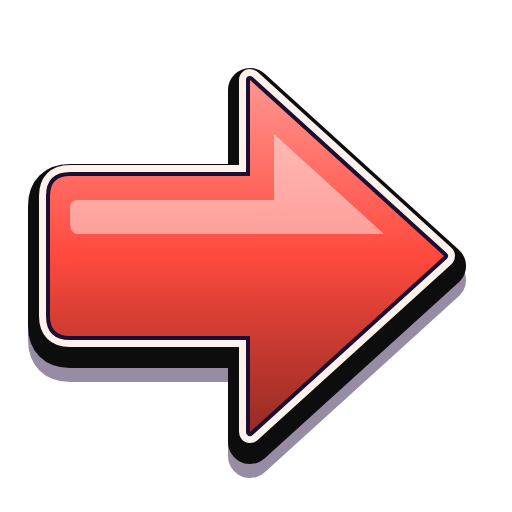
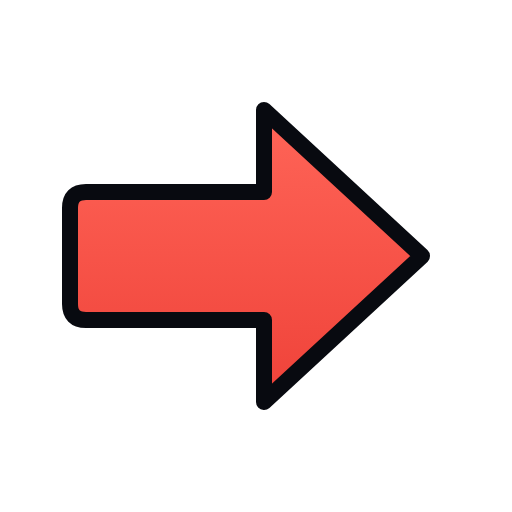
fix(tutorial): simplify arrow and clear Skip from progress bar

Changed region(s): [[0.0312, 0.125, 0.9375, 0.9375]]

diff --git a/tools/tutorial/make_assets.py b/tools/tutorial/make_assets.py
@@ -20,11 +20,9 @@ GOLD = "#ffd43a"
 def make(name):
     icon = icons.Icon()
     if name == "FocusArrow":
-        path = 'd="M35 88 H125 V40 L222 128 L125 216 V168 H35 Q25 168 25 158 V98 Q25 88 35 88Z"'
-        icon.raw(f'<path {path} transform="translate(0 5)" fill="#080a10" stroke="#080a10" stroke-width="22" stroke-linejoin="round"/>')
-        icon.raw(f'<path {path} fill="#fff2ed" stroke="#fff2ed" stroke-width="11" stroke-linejoin="round"/>')
-        icon.shape("path", path, "#ff493e", 4)
-        icon.gloss("path", 'd="M39 100 H137 V67 L192 117 H39 Q35 117 35 111 V104 Q35 100 39 100Z"', .45)
+        path = 'd="M43 96 H132 V55 L211 128 L132 201 V160 H43 Q35 160 35 152 V104 Q35 96 43 96Z"'
+        icon.raw('<defs><linearGradient id="focus-red" x1="0" y1="0" x2="0" y2="1"><stop offset="0" stop-color="#ff6558"/><stop offset="1" stop-color="#ef4239"/></linearGradient></defs>')
+        icon.raw(f'<path {path} fill="url(#focus-red)" stroke="#080a10" stroke-width="8" stroke-linejoin="round"/>')
     elif name == "Pointer":
         icon.shape("path", 'd="M38 91 H132 V43 L220 128 L132 213 V165 H38 Z"', GOLD)
         icon.gloss("path", 'd="M50 102 H145 V72 L194 120 H50 Z"', .5)
@@ -49,7 +47,7 @@ def make(name):
     else:
         icon.shape("path", 'd="M38 121 L128 38 L218 121 L191 150 L128 94 L65 150 Z M38 184 L128 101 L218 184 L191 213 L128 157 L65 213Z"', GOLD, 11)
         icon.gloss("path", 'd="M57 119 L128 54 L200 119 L189 130 L128 78 L68 130Z"', .55)
-    return icon.svg(shadow=name not in {"TargetRing", "PathMarker"})
+    return icon.svg(shadow=name not in {"FocusArrow", "TargetRing", "PathMarker"})
 
 
 def main():

diff --git a/docs/ReactiveTutorial.md b/docs/ReactiveTutorial.md
@@ -12,23 +12,30 @@ The free starter sack already exists in SackGear/Hotbar.Slot0, so its real contr
 
 Main guidance ends at the first placed pet and a brief income introduction: at least two seconds with income observed, or a five-second explanation fallback if the income tick is delayed. Affordable pen/speed upgrades are optional dismissible tips. No purchase, reward, camera takeover or movement restriction is introduced.
 
-`UI/Tutorial` contains reusable welcome/objective cards, real-control spotlight and world guide. The latest revision retains the preceding approved-menu layout: dark body, 5px near-black border, 8px corners, six-pixel shadow, striped gradient header, outlined white Fredoka text, chunky highlighted buttons, numbered steps, progress bar and interaction motion. Headers, buttons, progress and guidance now use red accents. Tutorial panels contain no decorative ImageLabels/ImageButtons: egg/sack/pet/cash icons, completion sparkles, texture PNGs and unrelated success effects are removed from the tutorial. The real game hotbar retains its normal art and live 3D item previews. The user subsequently approved one custom PNG exception for the arrow: FocusArrow is shared by the hotbar/control pointer, world pointer and offscreen pointer. Other historical tutorial images remain unused.
+`UI/Tutorial` contains reusable welcome/objective cards, real-control spotlight and world guide. The latest revision retains the preceding approved-menu layout: dark body, 4px near-black border, 8px corners, six-pixel shadow, striped gradient header, outlined white Fredoka text, chunky highlighted buttons, numbered steps, progress bar and interaction motion. Headers, buttons, progress and guidance now use red accents. Tutorial panels contain no decorative ImageLabels/ImageButtons: egg/sack/pet/cash icons, completion sparkles, texture PNGs and unrelated success effects are removed from the tutorial. The real game hotbar retains its normal art and live 3D item previews. The user subsequently approved one custom PNG exception for the arrow: FocusArrow is shared by the hotbar/control pointer, world pointer and offscreen pointer. Other historical tutorial images remain unused.
 
 The current sentence appears for four seconds, fades/pops away over 0.2s, and leaves a small red SHOW HINT button. Clicking it recalls the current instruction; a reminder returns after ten seconds, and a new action changes the instruction immediately. Reduced Motion removes the scale transition. Completion is one short styled card. Confirmed training hits and stage changes give the heading a small scale pop; cues rise/fade into place. These motions honor Reduced Motion. Main instructions remain short sentences; the numbered stage and training count retain the prior layout.
 
 During the main tutorial/welcome, Focus temporarily masks side menus, drawers, settings/sound buttons, counters, weather and the Studio weather developer control. It preserves the actual instances and their current Visible state, including changes made while hidden. The hotbar, kick/chase controls, placement hints, normal movement, touch controls and Roblox menu remain available. Counters return for the income lesson; all masked panels return after Skip, completion, controller cleanup, or opening a real menu. Cosmetic kick cinematics keep the extra HUD masked. Replay uses the same hotbar and masking flow.
 
-The spotlight again uses four inactive dark masks (52% opacity) with a clear hole around the real control. A custom glossy red PNG points down from above the selected egg/control, bounces by up to eight pixels, and has a softly breathing outline. It falls back below/beside controls only when needed to stay in the safe viewport. Shared rectangle edges are rounded once to avoid one-pixel gaps on scaled controls. The dimming fades in and never captures input. Rectangles account for visibility, scrolling clips and safe-area offsets. World guidance resolves BaseIndex plus OwnerUserId, then uses a red highlight, bouncing PNG arrow, softly pulsing segmented floor ring and offscreen pointer. The world arrow is projected into the tutorial ScreenGui each frame using the active camera and safe-area inset; this fixes the unreliable former BillboardGui rendering and ensures the same menu/cinematic visibility rules. The anchor bobs by 0.4 studs; Reduced Motion freezes that bob and the UI arrow/pulse. The complete walking route is sampled by distance from the current player position every frame, beginning ahead of the feet and ending at the target. Each native two-bar chevron points along the route; exponential interpolation removes waypoint jumps. Up to 40 chevrons (24 touch / 18 Low Detail) and a thin connector use fixed pools. Walking-only navigation, torso-width corridor tests and bidirectional segment validation reject fence-crossing paths; asynchronous results are discarded after target changes. Guidance clears over Settings/Trade/modals and during the existing cinematic. ZoneProgress continues to clear the objective by 16px.
+The spotlight again uses four inactive dark masks (52% opacity) with a clear hole around the real control. A custom red PNG with a thin outline points down from above the selected egg/control, bounces by up to eight pixels, and has a softly breathing outline. It falls back below/beside controls only when needed to stay in the safe viewport. Shared rectangle edges are rounded once to avoid one-pixel gaps on scaled controls. The dimming fades in and never captures input. Rectangles account for visibility, scrolling clips and safe-area offsets. World guidance resolves BaseIndex plus OwnerUserId, then uses a red highlight, bouncing PNG arrow, softly pulsing segmented floor ring and offscreen pointer. The world arrow is projected into the tutorial ScreenGui each frame using the active camera and safe-area inset; this fixes the unreliable former BillboardGui rendering and ensures the same menu/cinematic visibility rules. The anchor bobs by 0.4 studs; Reduced Motion freezes that bob and the UI arrow/pulse. The complete walking route is sampled by distance from the current player position every frame, beginning ahead of the feet and ending at the target. Each native two-bar chevron points along the route; exponential interpolation removes waypoint jumps. Up to 40 chevrons (24 touch / 18 Low Detail) and a thin connector use fixed pools. Walking-only navigation, torso-width corridor tests and bidirectional segment validation reject fence-crossing paths; asynchronous results are discarded after target changes. Guidance clears over Settings/Trade/modals and during the existing cinematic. ZoneProgress continues to clear the objective by 16px.
 
 The earlier cyan/lime approved-menu restyle at `3e2b66a` is the visual baseline. The user explicitly corrected an over-simplified intermediate draft: retain that styled UI and make focused fixes. That intermediate draft is not the delivered revision.
 
 ## Arrow asset and historical assets
 
-Current approved arrow: `assets/tutorial/FocusArrow.png`, editable `assets/tutorial/src/FocusArrow.svg`. It extends the existing icon generator with a red gradient, light inner rim, thick dark outline and highlight. Regenerate only this asset with `python tools/tutorial/make_assets.py FocusArrow`. The PNG is verified 512px RGBA with transparent corners. Uploaded using the existing Open Cloud uploader under verified user **1340874349**: decal **130821505800543**, resolved image **97161043303033**. Runtime preloads the resolved image; native Studio confirmed IsLoaded and visually rendered it above the hotbar egg and a hatching world egg. The user explicitly permitted this pointer PNG after requesting image-free panels.
+Current approved arrow: `assets/tutorial/FocusArrow.png`, editable `assets/tutorial/src/FocusArrow.svg`. It extends the existing icon generator with the same red arrow silhouette in a simpler finish. Regenerate only this asset with `python tools/tutorial/make_assets.py FocusArrow`. The current simpler revision keeps one thin dark outline and a subtle red fill; the earlier white rim, gloss and extruded shadow are removed. The PNG is verified 512px RGBA with transparent corners. Uploaded using the existing Open Cloud uploader under verified user **1340874349**: decal **128419627869618**, resolved image **82798776261686**. The preceding glossy revision was decal 130821505800543 / image 97161043303033. Runtime preloads the resolved image; native Studio confirmed IsLoaded and visually rendered it above the hotbar egg and a hatching world egg. The user explicitly permitted this pointer PNG after requesting image-free panels.
 
 Six original 512px RGBA PNGs extend the existing SVG icon language: Pointer, WorldArrow, Checkmark, Sparkle, TargetRing, PathMarker. PNGs and editable SVGs are in `assets/tutorial`; `tools/tutorial/make_assets.py` reproduces them using the repo icon helper and headless Chrome. Uploaded under verified creator **1340874349**. Actual returned decal and resolved image IDs are in `assets/tutorial/roblox-assets.json`; the historical Assets registry retains the resolved images; only FocusArrow is referenced by the current tutorial components. No credentials are stored.
 
 ## Verification performed
+
+Current small visual refinement after `0034e08` (2026-10-19):
+- Simplified the existing arrow PNG to one red fill with a subtle gradient and a thin dark outline. Uploaded decal **128419627869618**, resolved image **82798776261686**; it loaded and was visually reviewed in Studio. Existing bounce, blackouts and tutorial behavior remain.
+- Tutorial panels use a 4px border (previously 5), buttons 3px (previously 4), and the objective header divider is 2px. The objective is 104px tall instead of 96; Skip moves up one pixel and the progress bar anchors nine pixels from the bottom. Its 48px tap target is retained.
+- **111 native presentation checks** passed across 844x390, 390x844 and 320x568, including nine checks that the actual hovered Skip border clears the progress bar. The representative desktop preview measured **5.21px visible clearance at 1.035 hover scale**. Simpler arrow and lighter panel/button outlines were visually reviewed with production sibling layering.
+- Targeted StyLua/diff and Rojo/binary verification pass: **298 scripts**, **17 relevant sources** current/compilable, no probes. Gameplay, route and full-loop tests were not rerun for these local art/layout changes; prior evidence below is inherited.
+
 
 Current arrow/dimming follow-up after `60aca93` (2026-10-19):
 - **102 native presentation checks** passed with the production modules: the existing three responsive sizes, allowed-arrow-only image policy, clear/non-interactive spotlight hole, complete mask coverage, above-control placement/fallback, vertical bounce, frozen Reduced Motion effects, world bob, safe-area screen projection, behind-camera edge pointer and cleanup.

diff --git a/docs/DEVELOPMENT_HANDOFF.md b/docs/DEVELOPMENT_HANDOFF.md
@@ -1,7 +1,7 @@
 # Development handoff
 
 ## Current checkpoint
-- Task complete: preserved the styled tutorial and restored focused blackouts. One approved custom red PNG arrow now bounces above real hotbar controls and world eggs; soft outline/ring pulses and training/stage text pops add motion. Panels remain free of decorative PNGs. Fixed world-arrow rendering using camera projection and mask seams on scaled controls. Rebuilt `outputs/KickTheEgg-ReactiveTutorial.rbxl`; clean single-player welcome preview. See `docs/ReactiveTutorial.md`.
+- Task complete: simplified the red arrow finish, slightly thinned tutorial borders and fixed Skip/progress overlap with clearance even at full hover scale. Retained styled panels, bounce and focused blackouts. Rebuilt `outputs/KickTheEgg-ReactiveTutorial.rbxl`; clean single-player welcome preview. See `docs/ReactiveTutorial.md`.
 - Branch: `codex/reactive-tutorial`, based on podium relocation `164cb63` on `codex/pen-upgrade-feedback`, itself based on setup commit `4aa9292` and combined game `origin/a/full-build` at `2f59bee` (character-animation merge, PR #49).
 - Working directory: `C:/Users/kerem/Documents/Codex/2026-10-13/ca/work/kte-setup`.
 - GitHub: current tutorial uses `codex/reactive-tutorial`; prior pen feedback, Shift Lock, shop labels and podium work remain on `origin/codex/pen-upgrade-feedback` at `164cb63`. Use the tutorial branch tip for the assembled revision. No PR or automatic merge is created.
@@ -21,6 +21,7 @@
 - Registered Blender MCP 2.1.9 with telemetry disabled; retained the installed protocol-13 add-on. Existing Studio MCP and Rojo reused.
 
 ## Verification this session
+- Small visual refinement: 111 native presentation checks passed across desktop/phone component sizes, including nine real hovered-button clearance checks. Representative visible gap: 5.21px at 1.035 hover scale; 48px tap height preserved. Panels 4px / buttons 3px, objective +8px height with bottom-anchored progress. Simpler arrow decal 128419627869618 resolves to image 82798776261686, loaded and visually reviewed in Studio. Targeted formatting/diff and rebuilt binary verification passed (298 scripts, 17 relevant sources, no probes). No route/gameplay/full-loop retest for these art/layout-only changes; older results below are inherited.
 - Arrow/dimming follow-up: 102 native presentation checks passed, including mask coverage/click-through geometry, safe-area projection, UI/world bounce, Reduced Motion and cleanup. Uploaded FocusArrow under verified user 1340874349; decal 130821505800543 resolves to image 97161043303033 and loads/renders in Studio. Native hotbar selection through dimming, transition to unmasked world guidance and a hatching-egg world-arrow preview passed. 60 decision / 36 geometry checks, targeted formatting/diff and rebuilt binary verification passed (298 scripts, 17 relevant sources, no probes). No full-loop, physical-device, multiplayer or published permission retest this follow-up; older results below are inherited.
 - Current focused UI fixes: 81 native presentation/layout/masking checks passed at 844x390, 390x844 and 320x568; no tutorial ImageLabels/ImageButtons. Native Continue and three real training hits passed. An in-memory early Sprout Pup egg fixture used real tool sync; its real hotbar click led to pen guidance, real-speed walking, native placement, normal hatching, pet rendering/income and automatic HUD restoration. Replay welcome Skip restored exact HUD roots and preserved saved completion. Red route trace: 600 frames / 68 moving / zero stale frames, 2.95-stud minimum forward lead. Fresh launch/cinematic masking recovery passed. 60 decision and 36 geometry checks, targeted StyLua/diff and binary verification passed: 298 scripts, 17 relevant sources current/compilable, no probes. No full kick/chase loop, physical-device or published persistence retest this revision; older full-loop evidence below is inherited.
 - Approved-menu restyle: Welcome/Objective use shared Ui/Theme studded dark panels, striped cyan headers, outlined white text, lime Continue and gray Skip/Later buttons, approved icons and progress bar. Real Shop reference and new panels visually inspected. All 177 desktop/phone component layout checks passed, plus native Continue/training/Skip/replay. ZoneProgress measured 16px below the objective and y24 without it. Current binary: 296 scripts, 14 relevant UI/tutorial sources current/compilable, no probes. No route/full-loop retest for this presentation change; those results below are inherited. Same Studio file updated; single-player welcome preview ready.
